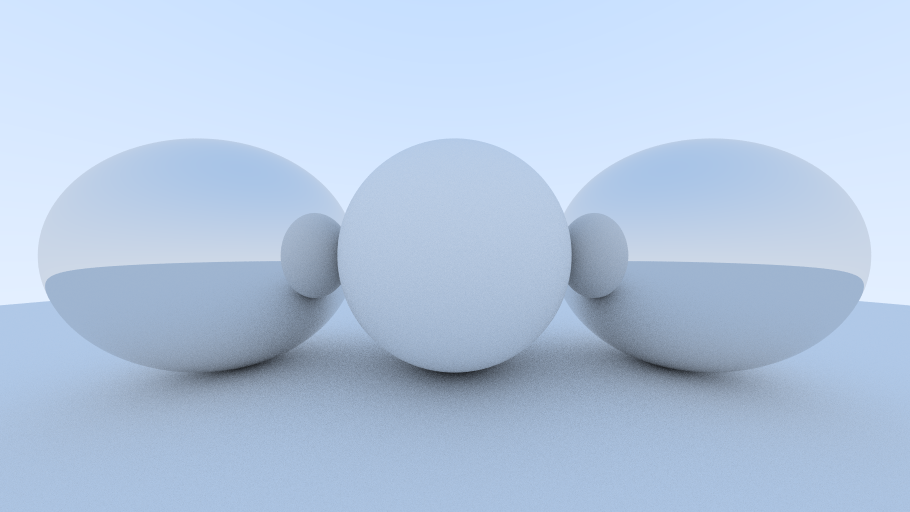
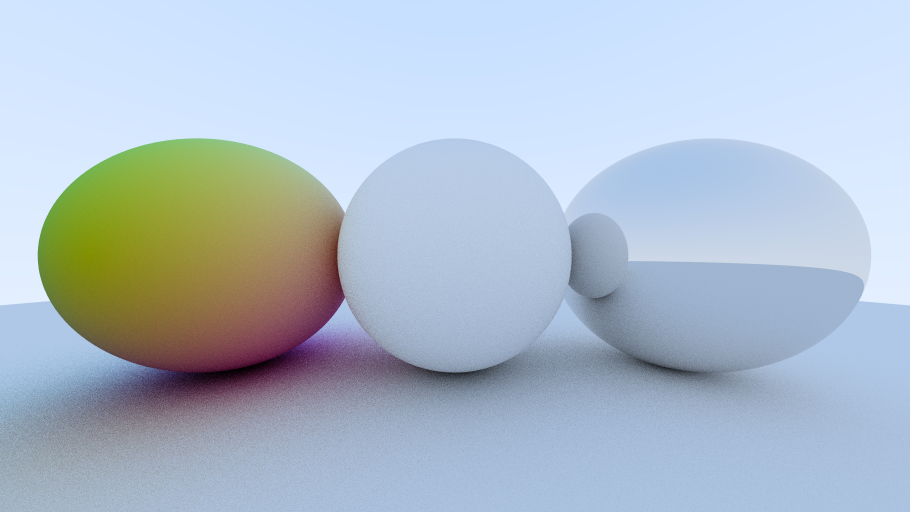
Normal material

Changed region(s): [[0.0, 0.25, 0.4615, 1.0]]

diff --git a/src/engine/scene.rs b/src/engine/scene.rs
@@ -5,6 +5,7 @@ use gltf::json::camera::Type;
 use crate::engine::material::{*};
 use crate::engine::material::diffuse::{*};
 use crate::engine::material::metal::{*};
+use crate::engine::material::normal::{*};
 
 use super::geometry::sphere::{*};
 use super::geometry::triangle::{*};
@@ -55,7 +56,10 @@ impl Scene {
             let gltf_mesh = mesh_option.unwrap();
 
             let diffuse_material_data = DiffuseMaterial{};
-            let diffuse_material = Material{scatter : Rc::new(diffuse_material_data)};
+            let diffuse_material = Material{
+                scatter : Rc::new(diffuse_material_data),
+                sample: Rc::new(diffuse_material_data)
+            };
             let mut mesh : Mesh = Mesh::new(Rc::new(diffuse_material));
 
             for primitive in gltf_mesh.primitives() {
@@ -142,18 +146,33 @@ impl Scene {
 
     pub fn load_debug(&mut self) {
         let diffuse_material_data = DiffuseMaterial{};
-        let diffuse_material = Material{scatter : Rc::new(diffuse_material_data)};
+        let diffuse_material = Material{
+            scatter : Rc::new(diffuse_material_data),
+            sample: Rc::new(diffuse_material_data)
+        };
+
+        let metal_material_data = MetalMaterial{metalness : 0.3};
+        let metal_material = Material{
+            scatter : Rc::new(metal_material_data),
+            sample: Rc::new(metal_material_data)
+        };
+
+        let normal_material_data = NormalMaterial{};
+        let normal_material = Material{
+            scatter : Rc::new(normal_material_data),
+            sample: Rc::new(normal_material_data)
+        };
 
         let mut mesh : Mesh = Mesh::new(Rc::new(diffuse_material));
         mesh.add_sphere(Sphere{radius : 0.5, position : Vec3A::new(0.0, 0.0, 1.2)});
         mesh.add_sphere(Sphere{radius : 100.0, position : Vec3A::new(0.0, -100.5, 1.0)});
         self.meshes.push(mesh);
-
-        let metal_material_data = MetalMaterial{metalness : 0.3};
-        let metal_material = Material{scatter : Rc::new(metal_material_data)};
         
         let mut mesh : Mesh = Mesh::new(Rc::new(metal_material));
         mesh.add_sphere(Sphere{radius : 0.5, position : Vec3A::new(1.0, 0.0, 1.2)});
+        self.meshes.push(mesh);
+
+        let mut mesh : Mesh = Mesh::new(Rc::new(normal_material));
         mesh.add_sphere(Sphere{radius : 0.5, position : Vec3A::new(-1.0, 0.0, 1.2)});
         self.meshes.push(mesh);
     }

diff --git a/src/engine/renderer.rs b/src/engine/renderer.rs
@@ -49,14 +49,22 @@ impl Renderer {
             return (1.0 - t) * Vec3A::new(1.0, 1.0, 1.0) + t * Vec3A::new(0.5, 0.7, 1.0);
         }
 
-        if depth > 1 {
-            let scatter_vector = unsafe {(*min_hit_result.material.as_ptr()).scatter.scatter(ray, &min_hit_result)};
+        let sample = unsafe {(*min_hit_result.material.as_ptr()).sample.sample(&min_hit_result)};
 
-            let new_ray = Ray{origin : min_hit_result.position, direction : scatter_vector};
-            return Self::sample_scene(new_ray, scene, depth - 1) * 0.8;
+        if depth > 1 {
+            let scatter_option = unsafe {(*min_hit_result.material.as_ptr()).scatter.scatter(ray, &min_hit_result)};
+
+            if scatter_option.is_some() {
+                let scatter_vector = scatter_option.unwrap();
+
+                let new_ray = Ray{origin : min_hit_result.position, direction : scatter_vector};
+                if depth > 1 {
+                    return 0.8 * Self::sample_scene(new_ray, scene, depth - 1) * sample;
+                }
+            }
         }
 
-        Vec3A::new(0.0, 0.0, 0.0)
+        Vec3A::ZERO
     }
 
     pub fn render(&self, camera : Camera, render_context : RenderContext) {

diff --git a/src/engine/material/metal.rs b/src/engine/material/metal.rs
@@ -4,6 +4,7 @@ use crate::engine::geometry::traceable::*;
 use crate::engine::math::ray::*;
 use glam::{Vec3A};
 
+#[derive(Copy, Clone)]
 pub struct MetalMaterial {
     pub metalness: f64,
 }
@@ -13,7 +14,13 @@ pub fn reflect(eye: Vec3A, normal: Vec3A) -> Vec3A {
 }
 
 impl Scatter for MetalMaterial {
-    fn scatter(&self, ray: Ray, hit_result: &HitResult) -> Vec3A {
-        reflect(ray.direction, hit_result.normal)
+    fn scatter(&self, ray: Ray, hit_result: &HitResult) -> Option<Vec3A> {
+        Some(reflect(ray.direction, hit_result.normal))
+    }
+}
+
+impl Sample for MetalMaterial {
+    fn sample(&self, hit_result : &HitResult) -> Vec3A {
+        Vec3A::ONE
     }
 }

diff --git a/src/engine/material/normal.rs b/src/engine/material/normal.rs
@@ -5,19 +5,19 @@ use crate::engine::geometry::traceable::{*};
 use crate::engine::math::utils::{*};
 
 #[derive(Copy, Clone)]
-pub struct DiffuseMaterial {
+pub struct NormalMaterial {
     
 }
 
-impl Scatter for DiffuseMaterial {
+impl Scatter for NormalMaterial {
     fn scatter(&self, ray: Ray, hit_result : &HitResult) -> Option<Vec3A> {
         let diffuse_position = hit_result.normal + random_in_unit_sphere();
         Some(diffuse_position.normalize())
     }
 }
 
-impl Sample for DiffuseMaterial {
+impl Sample for NormalMaterial {
     fn sample(&self, hit_result : &HitResult) -> Vec3A {
-        Vec3A::ONE
+       0.5 * (hit_result.normal + Vec3A::ONE)
     }
 }

diff --git a/src/engine/material.rs b/src/engine/material.rs
@@ -1,5 +1,6 @@
 pub mod diffuse;
 pub mod metal;
+pub mod normal;
 
 use crate::engine::math::ray::{*};
 use glam::{Vec3A};
@@ -11,6 +12,7 @@ use std::rc::{*};
 
 pub struct Material {
     pub scatter : Rc<dyn Scatter>,
+    pub sample : Rc<dyn Sample>,
 }
 
 impl Material {
@@ -18,5 +20,9 @@ impl Material {
 }
 
 pub trait Scatter {
-    fn scatter(&self, ray: Ray, hit_result : &HitResult) -> Vec3A;
+    fn scatter(&self, ray: Ray, hit_result : &HitResult) -> Option<Vec3A>;
+}
+
+pub trait Sample {
+    fn sample(&self, hit_result : &HitResult) -> Vec3A;
 }
